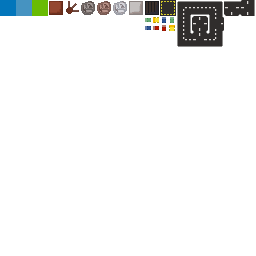
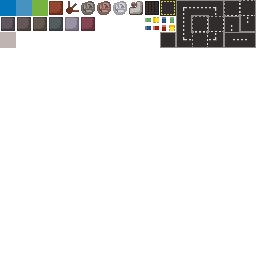
#26 add visual distinct tiles

Changed region(s): [[0.625, 0.0, 1.0, 0.1875], [0.0, 0.0, 0.375, 0.1875], [0.5, 0.0, 0.5625, 0.0625]]

diff --git a/src/game/asset_tiles.rs b/src/game/asset_tiles.rs
@@ -1,10 +1,15 @@
 use bevy::prelude::*;
 use bevy_ecs_tilemap::prelude::*;
 
-use super::{
-    assets::{Building, ExportStation, RequiresUpdate, Storage},
+use crate::game::{
+    assets::{Building, ExportStation, RequiresUpdate, Resource, Storage},
     building_specifications::BuildingSpecifications,
     constants::MapTile,
+};
+
+use super::{
+    assets::Occupied,
+    setup::{GROUND_LAYER_ID, MAP_ID},
 };
 
 pub fn building_update(
@@ -19,9 +24,17 @@ pub fn building_update(
     }
 }
 
-pub fn storage_update(mut query: Query<&mut Tile, (With<Storage>, With<RequiresUpdate>)>) {
-    for mut tile in query.iter_mut() {
-        tile.texture_index = MapTile::Storage as u16;
+pub fn storage_update(mut query: Query<(&mut Tile, &Storage), With<RequiresUpdate>>) {
+    for (mut tile, storage) in query.iter_mut() {
+        tile.texture_index = match storage.resource {
+            Resource::Coal => MapTile::StorageCoal,
+            Resource::Coke => MapTile::StorageCoke,
+            Resource::Limestone => MapTile::StorageLimestone,
+            Resource::IronOre => MapTile::StorageIronOre,
+            Resource::Iron => MapTile::StorageIron,
+            Resource::Steel => MapTile::StorageSteel,
+            // _ => MapTile::Storage,
+        } as u16;
         tile.visible = true;
     }
 }
@@ -32,5 +45,24 @@ pub fn export_station_update(
     for mut tile in query.iter_mut() {
         tile.texture_index = MapTile::ExportStation as u16;
         tile.visible = true;
+    }
+}
+
+pub fn ground_update(
+    query: Query<&RequiresUpdate, With<Occupied>>,
+    mut tile_query: Query<&mut Tile>,
+    mut map_query: MapQuery,
+) {
+    for update in query.iter() {
+        let entity = map_query
+            .get_tile_entity(update.position, MAP_ID, GROUND_LAYER_ID)
+            .unwrap();
+
+        let mut tile = tile_query.get_mut(entity).unwrap();
+        tile.texture_index = MapTile::GroundFactory as u16;
+
+        map_query.notify_chunk_for_tile(update.position, MAP_ID, GROUND_LAYER_ID);
+
+        log::info!("ground updated!!!");
     }
 }

diff --git a/src/game/current_tool/bulldoze.rs b/src/game/current_tool/bulldoze.rs
@@ -4,7 +4,8 @@ use bevy_ecs_tilemap::prelude::*;
 use crate::game::{
     assets::{ClickedTile, SelectedTool, Street, Tool},
     car::Car,
-    setup::{BUILDING_LAYER_ID, MAP_ID, VEHICLE_LAYER_ID},
+    constants::MapTile,
+    setup::{BUILDING_LAYER_ID, GROUND_LAYER_ID, MAP_ID, VEHICLE_LAYER_ID},
 };
 
 use super::update_neighbor_streets;
@@ -16,6 +17,7 @@ pub fn bulldoze(
     clicked_tile: Res<ClickedTile>,
     street_query: Query<&Street>,
     car_query: Query<(Entity, &Car)>,
+    mut tile_query: Query<&mut Tile>,
 ) {
     if clicked_tile.dragging {
         return;
@@ -39,6 +41,15 @@ pub fn bulldoze(
                 map_query.notify_chunk_for_tile(pos, MAP_ID, BUILDING_LAYER_ID);
 
                 update_neighbor_streets(&mut commands, &mut map_query, pos, street_query);
+
+                let entity = map_query
+                    .get_tile_entity(pos, MAP_ID, GROUND_LAYER_ID)
+                    .unwrap();
+
+                let mut tile = tile_query.get_mut(entity).unwrap();
+                tile.texture_index = MapTile::Ground as u16;
+
+                map_query.notify_chunk_for_tile(pos, MAP_ID, GROUND_LAYER_ID);
             }
         }
     }

diff --git a/src/game/setup.rs b/src/game/setup.rs
@@ -6,7 +6,7 @@ use super::constants::{
 };
 
 pub const MAP_ID: u16 = 0;
-pub const LAYER_ID: u16 = 0;
+pub const GROUND_LAYER_ID: u16 = 0;
 pub const BUILDING_LAYER_ID: u16 = 1;
 pub const VEHICLE_LAYER_ID: u16 = 2;
 
@@ -38,9 +38,13 @@ pub fn setup_map(
     let map_entity = commands.spawn().id();
     let mut map = Map::new(MAP_ID, map_entity);
 
-    let (mut layer_builder, layer_entity) =
-        LayerBuilder::<TileBundle>::new(&mut commands, map_settings.clone(), MAP_ID, LAYER_ID);
-    map.add_layer(&mut commands, LAYER_ID, layer_entity);
+    let (mut layer_builder, layer_entity) = LayerBuilder::<TileBundle>::new(
+        &mut commands,
+        map_settings.clone(),
+        MAP_ID,
+        GROUND_LAYER_ID,
+    );
+    map.add_layer(&mut commands, GROUND_LAYER_ID, layer_entity);
 
     layer_builder.fill(
         UVec2::new(0, 0),

diff --git a/src/game/street.rs b/src/game/street.rs
@@ -62,15 +62,23 @@ impl From<NeighborStructure> for u16 {
             return MapTile::StreetEastWest as u16;
         }
 
-        if ns.north || ns.south {
-            return MapTile::StreetNorthSouth as u16;
+        if ns.north {
+            return MapTile::StreetNorthEnd as u16;
         }
 
-        if ns.west || ns.east {
-            return MapTile::StreetEastWest as u16;
+        if ns.south {
+            return MapTile::StreetSouthEnd as u16;
         }
 
-        MapTile::StreetNorthEastSouthWest as u16
+        if ns.west {
+            return MapTile::StreetWestEnd as u16;
+        }
+
+        if ns.east {
+            return MapTile::StreetEastEnd as u16;
+        }
+
+        MapTile::StreetNone as u16
     }
 }
 

diff --git a/src/game/constants.rs b/src/game/constants.rs
@@ -23,12 +23,24 @@ pub enum MapTile {
     StreetSouthWest,
     StreetEastSouthWest,
     StreetNorthSouthWest,
+    StorageCoal,
+    StorageCoke,
+    StorageIron,
+    StorageSteel,
+    StorageLimestone,
+    StorageIronOre,
     StreetNorthSouth = 27,
     StreetNorthEastSouthWest,
     StreetNorthEastSouth,
-    StreetNorthEast = 43,
+    StreetSouthEnd,
+    StreetNorthEnd,
+    GroundFactory = 32,
+    StreetNone = 42,
+    StreetNorthEast,
     StreetNorthEastWest,
     StreetNorthWest,
+    StreetEastEnd,
+    StreetWestEnd,
 }
 
 #[derive(FromPrimitive, ToPrimitive)]

diff --git a/src/game/mod.rs b/src/game/mod.rs
@@ -75,6 +75,7 @@ impl Game {
                     .with_system(asset_tiles::building_update.system())
                     .with_system(asset_tiles::storage_update.system())
                     .with_system(asset_tiles::export_station_update.system())
+                    .with_system(asset_tiles::ground_update.system())
                     .with_system(street::update_streets.system())
                     .with_system(storage::update_consolidators.system())
                     .with_system(car::update_car.system()),
